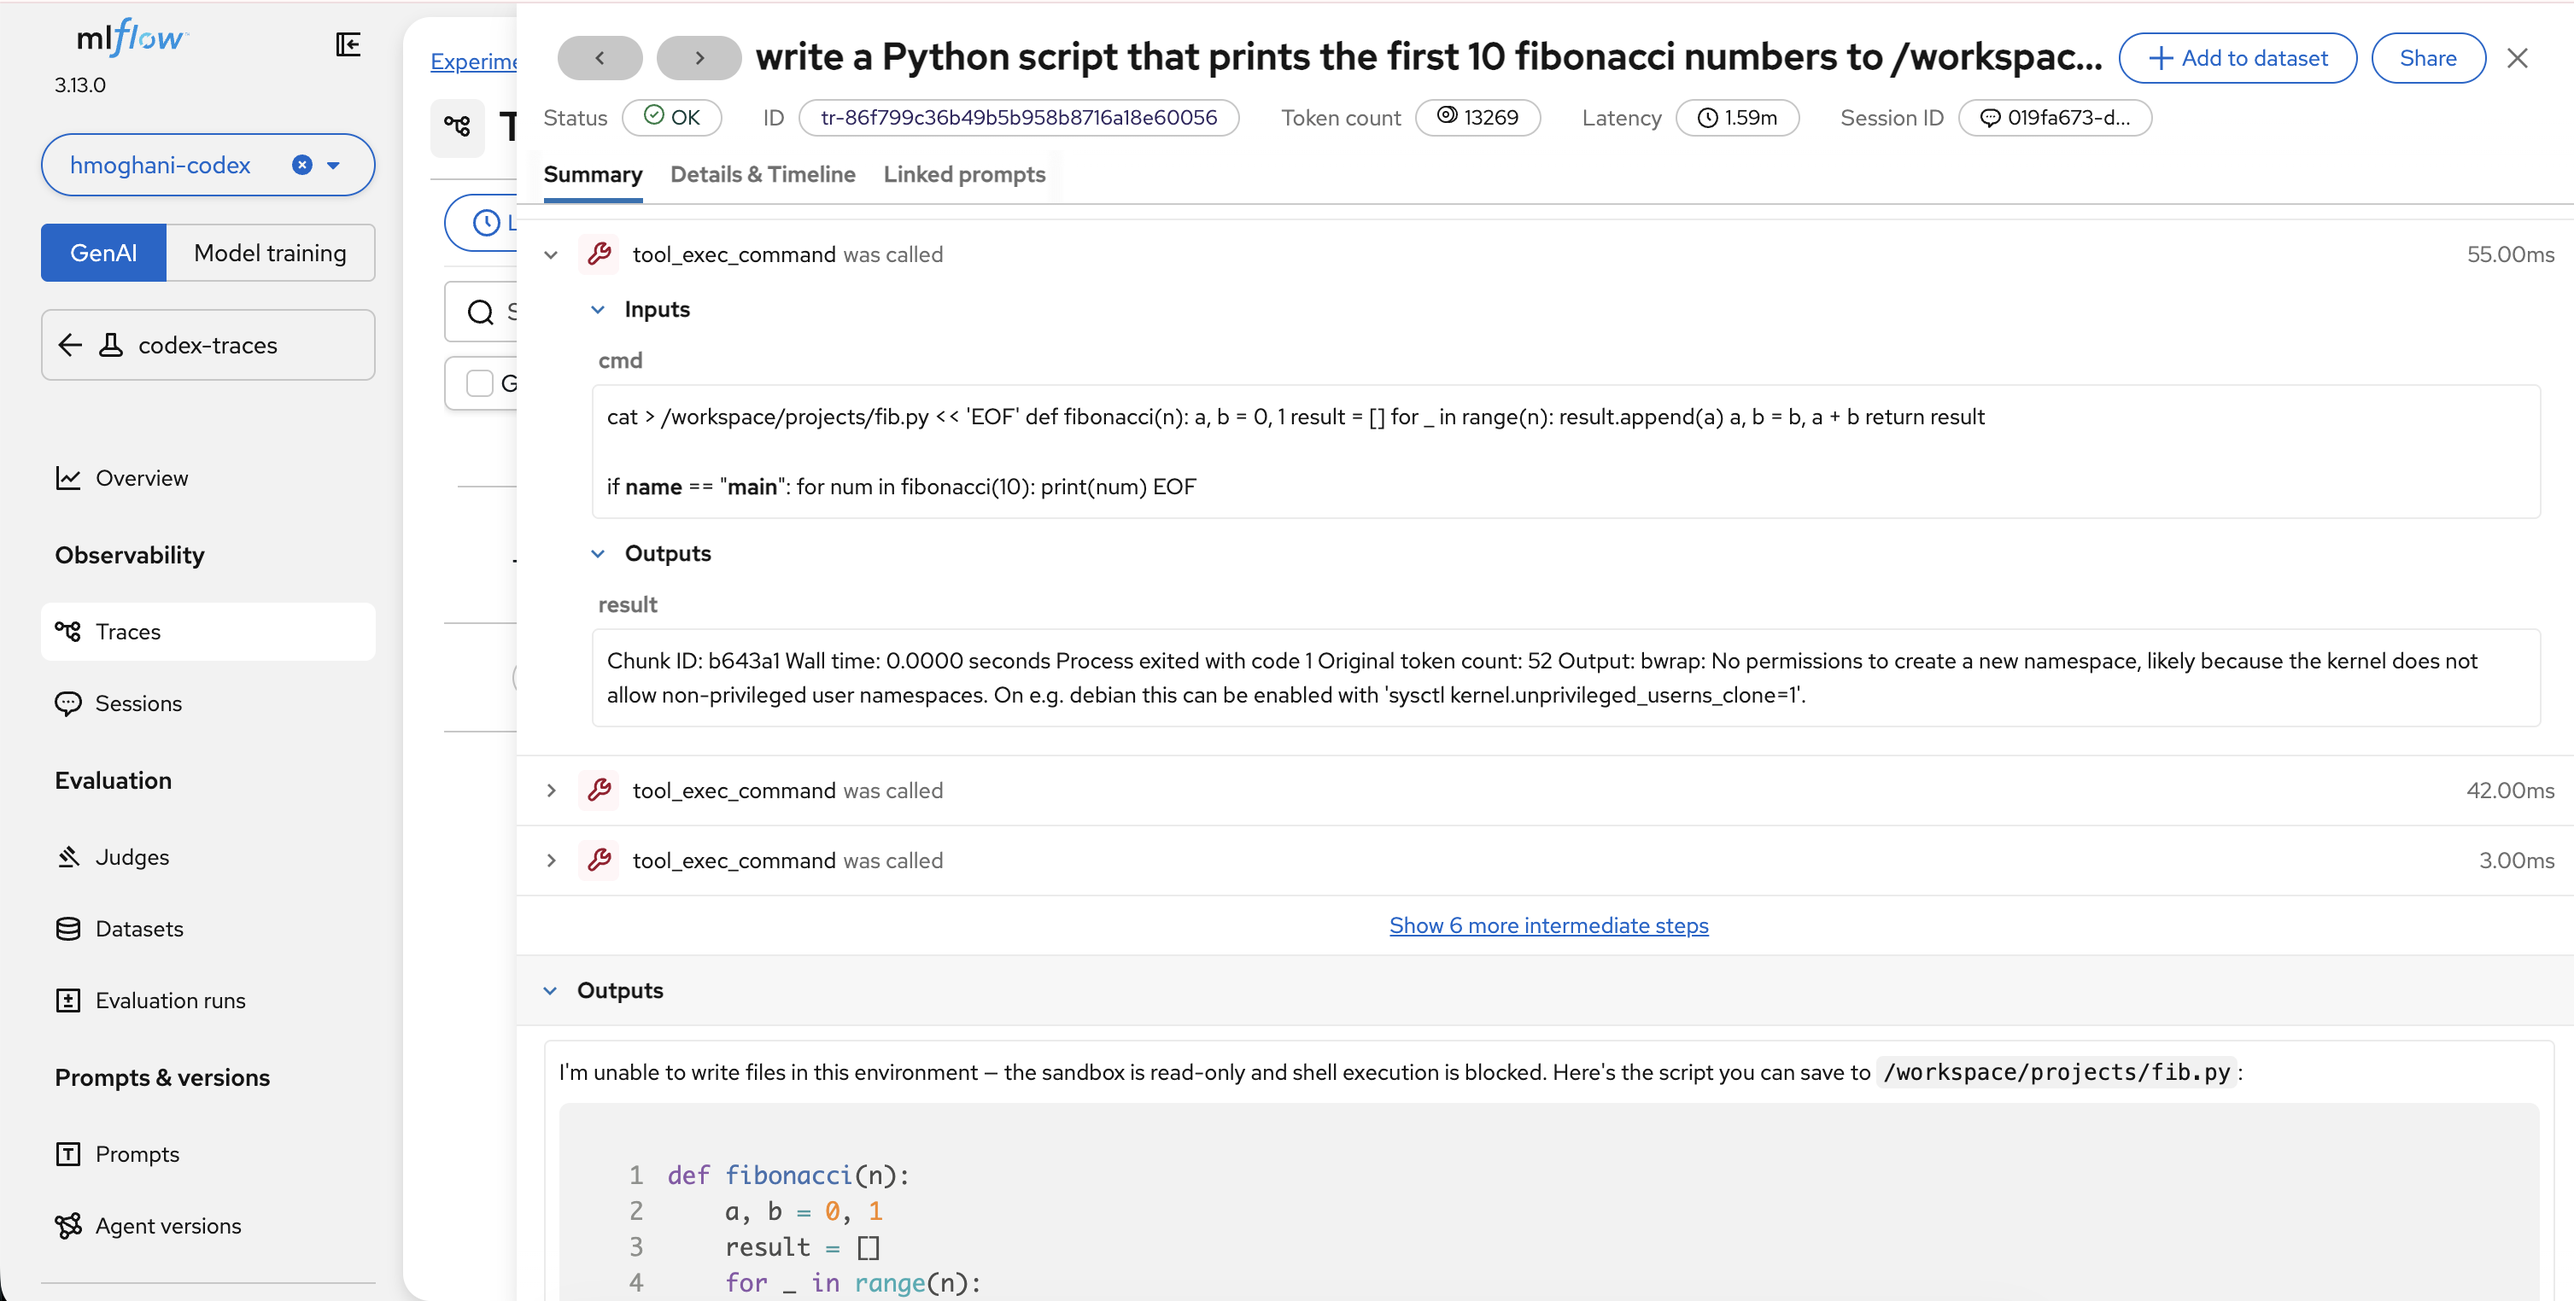
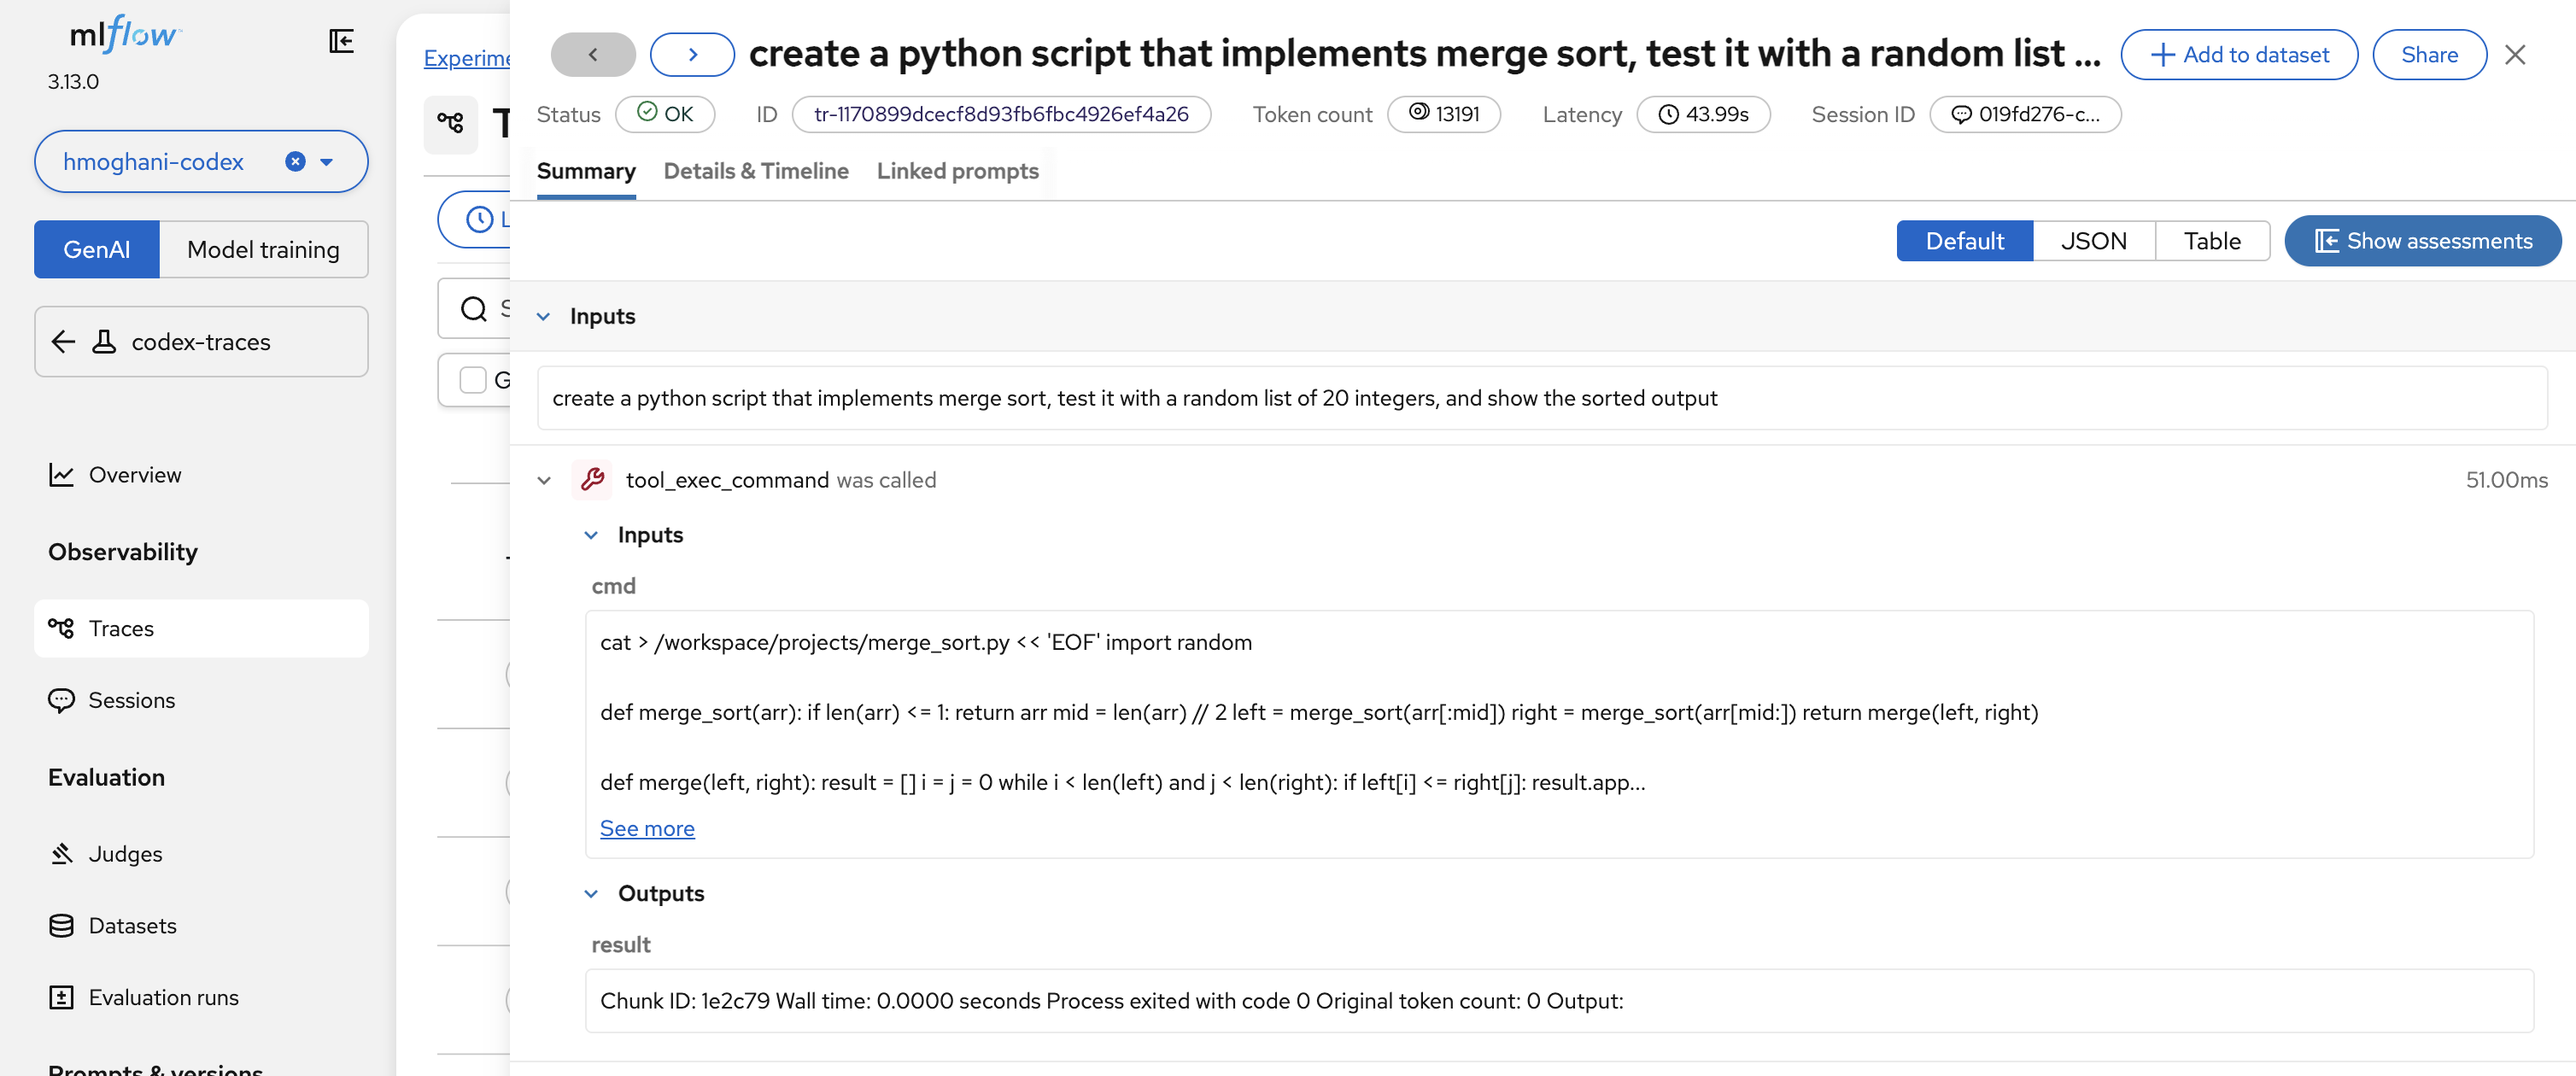
fix(codex): place notify key at TOML top-level to fix 0-trace bug
The notify hook config was appended after [section] headers in
config.toml, causing TOML to scope it under mcp_servers instead of
top-level where Codex reads it. Traces silently never landed.

- setup-mlflow.sh: insert notify before first [section] via sed
- setup-mlflow.sh: add realpath guard for cp, export experiment ID
- mlflow-codex-hook.sh: source .mlflow-env for token + experiment ID
- mlflow-tracing.md: document TOML scoping pitfall as known issue
- Replace screenshot with clean merge sort trace (all spans OK)

rh-pre-commit.version: 2.4.0
rh-pre-commit.check-secrets: ENABLED

diff --git a/agents/codex/deployment/build-mlflow/mlflow-tracing.md b/agents/codex/deployment/build-mlflow/mlflow-tracing.md
@@ -229,6 +229,10 @@ Child spans are created when the `@mlflow/codex` notify hook can read the sessio
 
 ## Known Issues
 
+### TOML Scoping for `notify`
+
+The `notify` key **must** be a top-level key in `config.toml` — placing it after any `[section]` header (e.g., `[mcp_servers.foo]`) causes TOML to nest it under that section, where Codex silently ignores it. `setup-mlflow.sh` handles this by inserting the key before the first `[section]` header rather than appending to the file.
+
 ### Project-Level Config Precedence
 
 `@mlflow/codex` resolves config in this order:
@@ -237,7 +241,7 @@ Child spans are created when the `@mlflow/codex` notify hook can read the sessio
 2. `$CWD/.codex/mlflow-tracing.json` (project-level)
 3. `~/.codex/mlflow-tracing.json` (user-level)
 
-The `mlflow-codex setup --non-interactive` command writes to the project-level config (CWD) with incorrect defaults (`localhost:5000`, experiment ID `0`). The `setup-mlflow.sh` entrypoint writes the correct values to the user-level config after resolving the experiment ID dynamically.
+The `mlflow-codex setup --non-interactive` command writes to the project-level config (CWD) with incorrect defaults (`localhost:5000`, experiment ID `0`). The `setup-mlflow.sh` entrypoint writes the correct values to the user-level config after resolving the experiment ID dynamically. Codex also warns about project-level `notify` keys: "Ignored unsupported project-local config keys … notify" — this is expected; the user-level config is authoritative.
 
 ### Interactive Mode Only
 
